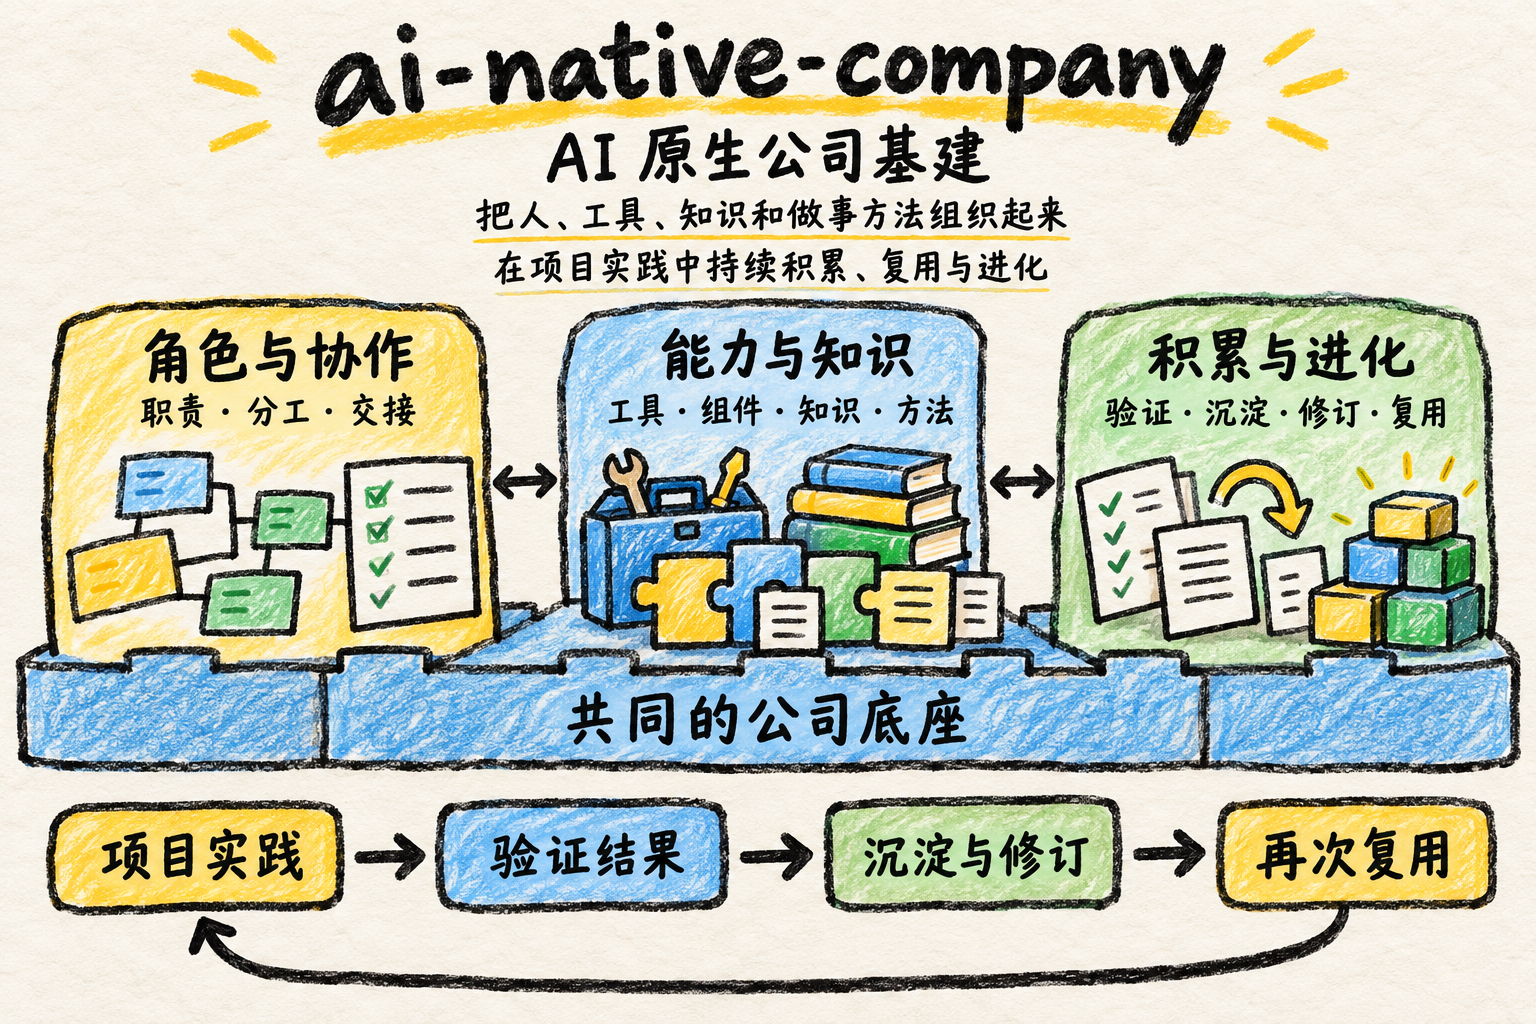
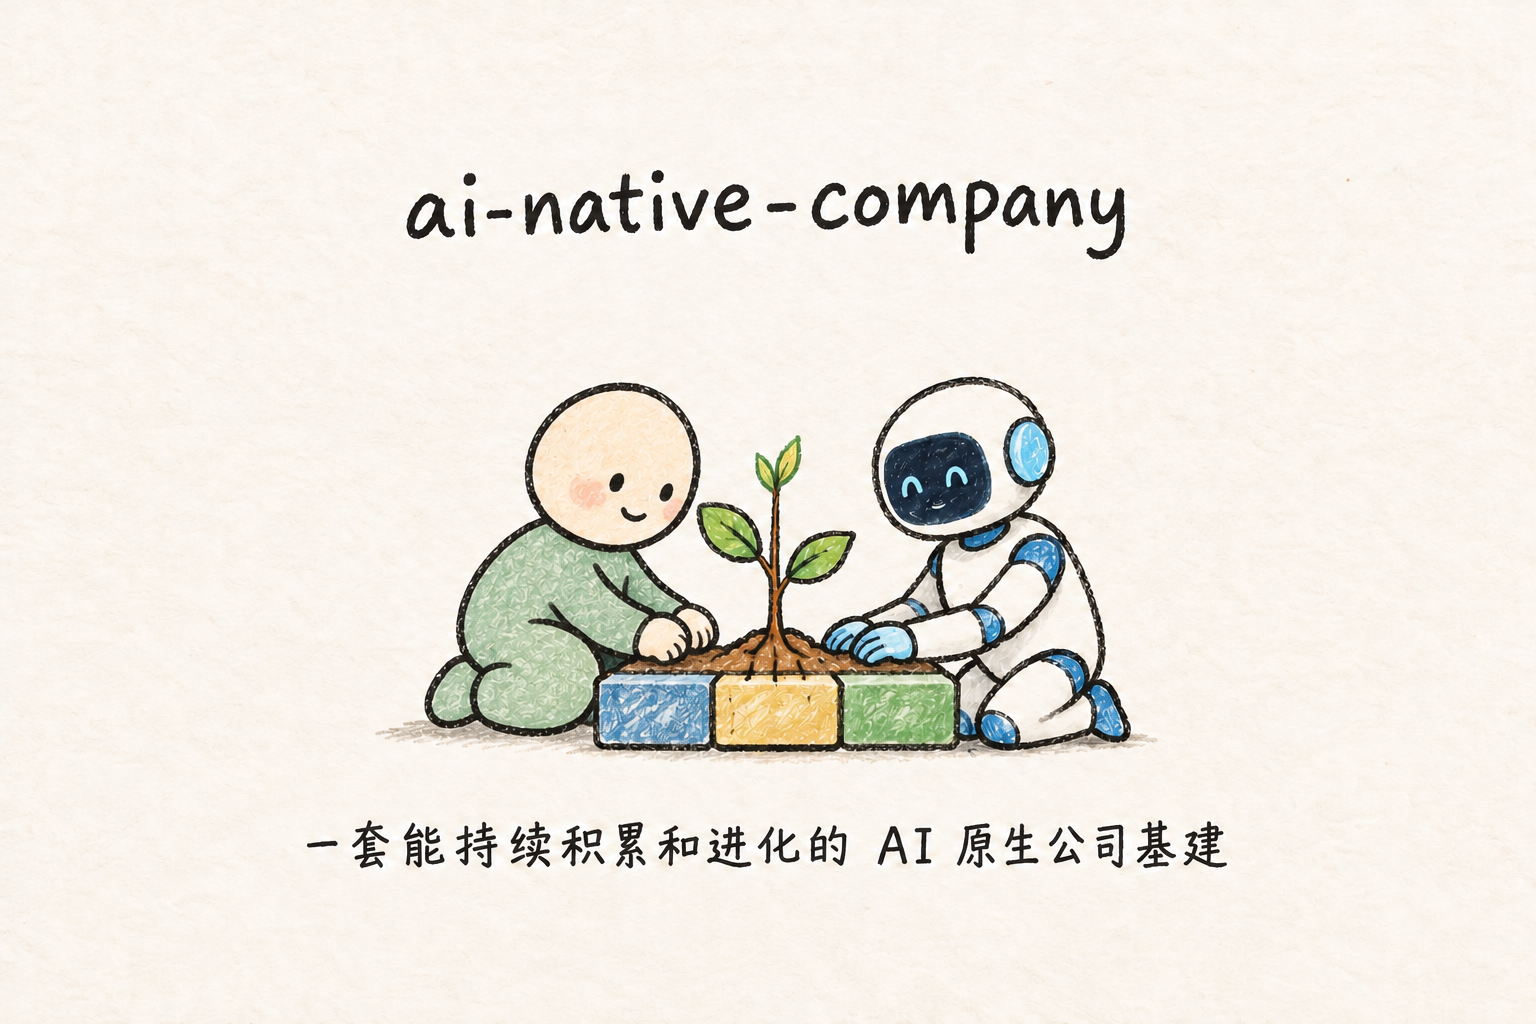
docs: update vision with human and AI growing together

diff --git a/README.md b/README.md
@@ -1,1 +1,1 @@
-![AI 原生公司基建：角色与协作、能力与知识、积累与进化](assets/vision.png)
+![一套能持续积累和进化的 AI 原生公司基建](assets/vision.png)
